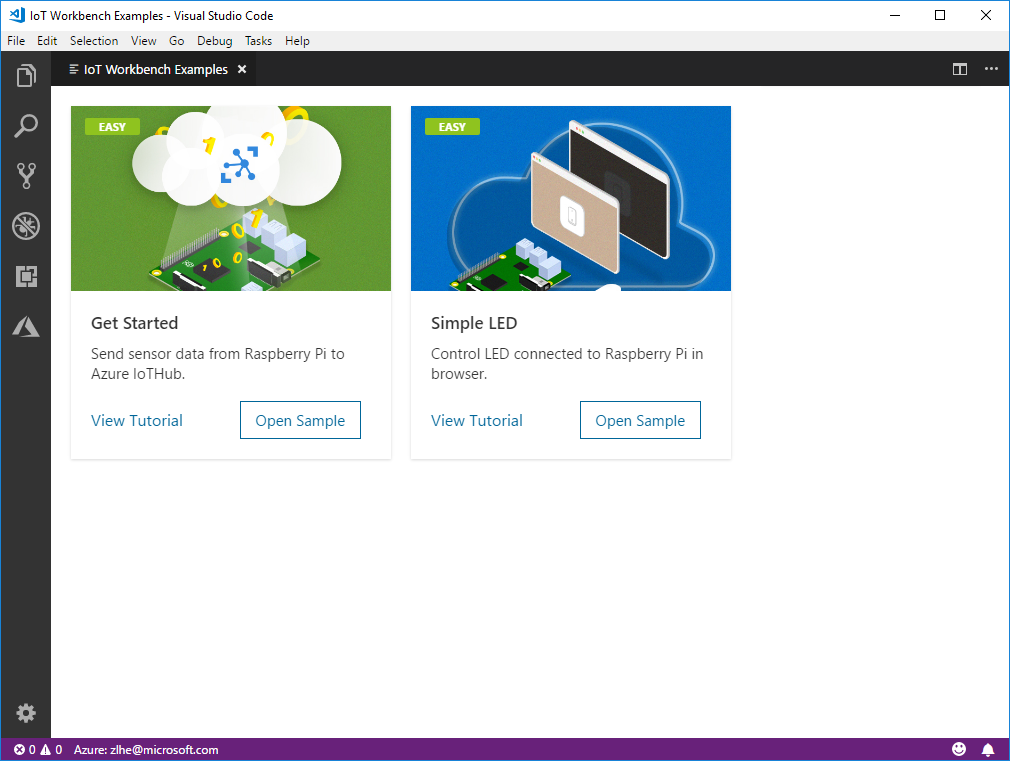
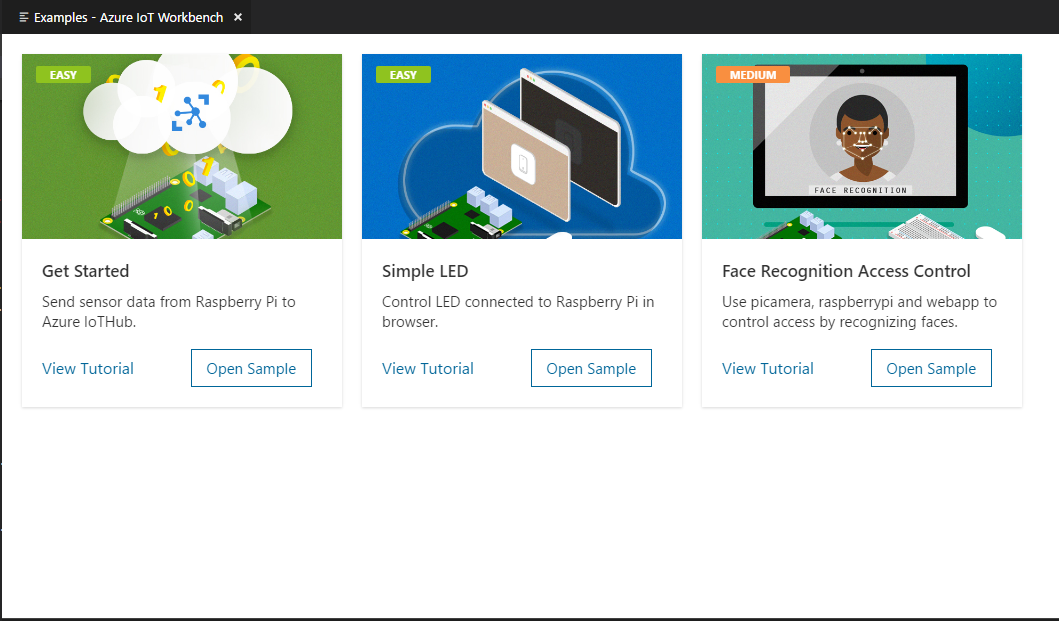
Add raspberrypi example (#432)

diff --git a/docs/raspberry-pi/raspi-face-recognition-access-control.md b/docs/raspberry-pi/raspi-face-recognition-access-control.md
@@ -1,0 +1,230 @@
+# Face Recognition Access Control
+
+In this tutorial, you will build an access control system with Raspberry Pi and Picamera. This access control system uses Azure IoT Hub direct method and Azure cognitive service.
+
+## What you need
+
+* Finish the [Getting Started Guide](./raspi-get-started.md) to prepare the development environment.
+* Enable SSH on Raspberry Pi and install Node.js. You can follow [this documentation](https://www.w3schools.com/nodejs/nodejs_raspberrypi.asp).
+* An active Azure subscription. If you do not have one, you can register via one of these two methods:
+
+  - Activate a [free 30-day trial Microsoft Azure account](https://azure.microsoft.com/free/).
+  - Claim your [Azure credit](https://azure.microsoft.com/pricing/member-offers/msdn-benefits-details/) if you are MSDN or Visual Studio subscriber.
+
+## Prepare your hardware
+
+### Connect Picamera to Raspberry Pi:
+
+You can follow the guide here <https://projects.raspberrypi.org/en/projects/getting-started-with-picamera/4>.
+
+![Camera connections](media/raspi-face-recognition-access-control/connect.jpg)
+
+### Connect Button and LED to Raspberry Pi:
+
+You can find Raspberry Pi GPIO pin mapping from <https://www.raspberrypi.org/documentation/usage/gpio/>.
+
+Connect Button one pin to 3.3V, one pin to Ground and another pin to GPIO 14. Notice that you should add a resist between the button and Ground to avoid large current.
+
+
+| Button | Raspberry Pi GPIO |
+| ------- | ----------------- |
+| PIN 1     | 3.3V                 |
+| PIN 2     | Ground            |
+| PIN 3     | 14            |
+
+![Button connections](media/raspi-face-recognition-access-control/connect-button.jpg)
+
+
+Connect Red LED VCC to GPIO 5, GND to Ground and Green LED VCC to GPIO 6, GND to Ground. Add a resistor to each circuit for protection.
+
+
+| LED Pin     | Raspberry Pi GPIO |
+| -------     | ----------------- |
+| RED VCC     | 5                 |
+| RED GND     | Ground            |
+| GREEN VCC   | 6                 |
+| GREEN GND   | Ground            |
+
+![Hardware connections](media/raspi-face-recognition-access-control/connect-final.jpg)
+
+## Open the project folder
+
+### Start VS Code
+
+- Start VS Code.
+- Make sure [Azure IoT Workbench](https://marketplace.visualstudio.com/items?itemName=vsciot-vscode.vscode-iot-workbench) is installed.
+
+### Open IoT Workbench Examples
+
+Use `F1` or `Ctrl+Shift+P` (macOS: `Cmd+Shift+P`) to open the command palette, type **IoT Workbench**, and then select **IoT Workbench: Examples**.
+
+![IoT Workbench: Examples](media/iot-workbench-examples-cmd.png)
+
+Select **Raspberry Pi**.
+
+![IoT Workbench: Examples -> Select board](media/iot-workbench-examples-board.png)
+
+Then the **IoT Workbench Example** window is shown up.
+
+![IoT Workbench, Examples window](media/iot-workbench-examples.png)
+
+Find **Face Recognition Access Control** and click **Open Sample** button. A new VS Code window with a project folder in it opens.
+
+![IoT Workbench, select face recognition access control example](media/raspi-face-recognition-access-control/open-example-face-control.png)
+
+## Provision Cognitive Service
+  1. Login to http://portal.azure.com
+  2. Select the **Create a resource** option.
+  3. Select **AI + Machine Learning** from the list of services.
+  4. Select **Face**. You may need to click "See all" or search to see it.
+	![create face service](media/raspi-face-recognition-access-control/create-face-api.jpg)
+  5. Fill out the rest of the form, and click the **Create** button.
+  6. You are now subscribed to Microsoft Face API.
+  7. Go to **All Resources** and select the Microsoft Face you created.
+  8. Copy your subscription endpoint to access the service. We will use that value in later sections.
+  ![get face endpoint](media/raspi-face-recognition-access-control/face-endpoint.jpg)
+  9. Go to the **Keys** option and copy your subscription key to access the service. We will use that value in later sections.
+	![get face key](media/raspi-face-recognition-access-control/face-key.jpg)
+  
+
+## Provision Azure Services
+
+In the solution window, open the command palette and select **IoT Workbench: Cloud**.
+
+![IoT Workbench: Cloud](media/iot-workbench-cloud.png)
+
+Select **Azure Provision**.
+
+![IoT Workbench: Cloud -> Provision](media/iot-workbench-cloud-provision.png)
+
+Then VS Code guides you through provisioning the required Azure services.
+
+![IoT Workbench: Cloud -> Provision steps](media/iot-workbench-cloud-provision-steps3.png)
+
+The whole process includes:
+
+- Select an existing IoT Hub or create a new IoT Hub.
+- Select an existing IoT Hub device or create a new IoT Hub device. 
+- Create a new Function App.
+
+Please take a note of the Function App name and IoT Hub device name you created. It will be used in the next section.
+
+## Modify code for Azure Functions
+
+Open **raspberrypi-state\run.csx** and modify the following line with the device name you provisioned in previous step:
+```cpp
+static string deviceName = "";
+```
+
+## Modify code for Raspberry Pi
+
+Open **Device\app.js** and modify the following lines with the subscription key and endpoint you recorded when provision face service.
+```cpp
+const subscriptionKey = ''; //face service key
+const endpoint = ''; //face service endpoint
+```
+
+Enter the **groupid** and **groupdname** you want to name your access control service in the same file.
+```cpp
+const groupid = '';
+const groupname = '';
+```
+
+
+## Deploy Azure Functions
+
+Open the command palette and select **IoT Workbench: Cloud**, then select **Azure Deploy**.
+
+![IoT Workbench: Cloud -> Deploy](media/iot-workbench-cloud-deploy.png)
+
+## Config IoT Hub Connection String
+
+1. Open the command palette and select **IoT Workbench: Device**.
+
+   ![IoT Workbench: Device](media/iot-workbench-device.png)
+
+2. Select **Config Device Settings**.
+
+   ![IoT Workbench: Device -> Settings](media/iot-workbench-device-settings.png)
+
+3. Select **Config connection of IoT Hub Device**.
+
+  ![IoT Workbench: Device -> Connection string](media/iot-workbench-device-string.png)
+
+4. Select **Select IoT Hub Device Connection String**.
+
+  ![IoT Workbench: Device -> Connection string](media/iot-workbench-device-string1.png)
+
+  This sets the connection string that is retrieved from the `Provision Azure services` step.
+
+5. The configuration success notification popup bottom right corner once it's done.
+
+  ![Raspberry Pi Connection String OK](media/iot-workbench-connection-done.png) 
+
+## Upload the device code
+
+1. Open the command palette and select **IoT Workbench: Device**.
+
+  ![IoT Workbench: Device](media/iot-workbench-device.png)
+
+2. Select **Config Device Settings**.
+
+  ![IoT Workbench: Device -> Settings](media/iot-workbench-device-settings.png)
+
+3. Select **Select Config Raspberry Pi SSH**.
+
+  ![IoT Workbench: Device -> SSH](media/iot-workbench-device-ssh.png)
+
+4. Input Raspberry Pi host name or IP, ssh port, user name, password and project name.
+
+5. Open the command palette and select **IoT Workbench: Device**, then select **Device Upload**.
+
+  ![IoT Workbench: Device -> Upload](media/iot-workbench-device-upload.png)
+
+6. VS Code then starts uploading the code to Raspberry Pi and install node modules.
+
+  ![IoT Workbench: Device -> Upload](media/iot-workbench-device-upload2.png)
+
+7. Login Raspberry Pi and run node code.
+
+Use command below to connect your Raspberry Pi with SSH. Change `pi` to your own user name, and `raspberrypi` to real Raspberry Pi host or IP.
+
+```bash
+ssh pi@raspberrypi
+```
+
+Then switch to the project folder, such as IoTProject.
+
+```bash
+cd IoTProject
+```
+
+Run the Node script.
+
+```bash
+node app.js
+```
+
+If you cannot execute ssh command in the terminal on Windows, you can use any other SSH client, such [PuTTY](https://www.putty.org/).
+
+  ![Run code on Raspberry Pi](media/raspi-face-recognition-access-control/run-code.jpg)
+
+## Control Access Rights in Browser
+
+1. Open `web\index.html` in browser.
+2. Input the Function App name you write down.
+3. Click connect button.
+4. You can start adding and deleting person in a few seconds.
+![Add person in web](media/raspi-face-recognition-access-control/web.jpg)
+5. When adding person, follow the command in Raspberry Pi terminal to record photos and train the model.
+![Add person in Raspberry Pi](media/raspi-face-recognition-access-control/add-person-raspberrypi.jpg)
+
+
+
+## Acquire Access with Raspberry Pi
+
+After adding some people, you can start trying to acquire access by pushing the button once. Once you push the button, the camera will take a photo and use that photo to determine whether you are allowed to enter.
+
+Here we use the LEDs to show the result. The green one will be on for two seconds if you are allowed. Similarly, the red one will be on if you are denied. You can also see the result in the console.
+
+![Result in the console](media/raspi-face-recognition-access-control/console-result.jpg)

diff --git a/README.md b/README.md
@@ -63,6 +63,7 @@ Here are a set of tutorials that will help you get started:
 
 * [Get Started](./docs/raspberry-pi/raspi-get-started.md)
 * [Simple LED](./docs/raspberry-pi/raspi-simple-led.md)
+* [Face Recognition Access Control](./docs/raspberry-pi/raspi-face-recognition-access-control.md)
 
 ### ESP32
 
